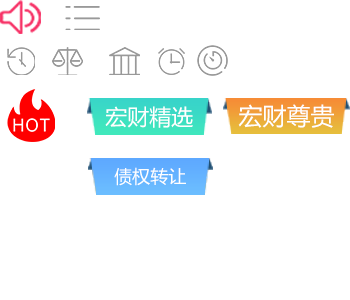
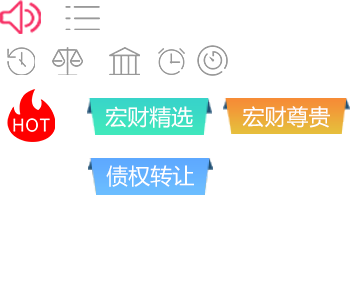
fix(main.less):项目特点 图标位置调整

Changed region(s): [[0.6857, 0.33, 0.9714, 0.45], [0.2857, 0.54, 0.5714, 0.63]]

diff --git a/app/styles/main.less b/app/styles/main.less
@@ -1029,6 +1029,7 @@ div, p {
   padding: 0.5rem 1.5rem 0.5rem; 
   border-bottom: 1px solid #eee; 
   position:relative;
+  overflow: hidden;
   .hdimg {
     float:left;
     width: 2rem;
@@ -1110,6 +1111,8 @@ div, p {
       .more-list {
         float: right;
         color: #f0c46c;
+        position: relative;
+        z-index: 9999;
       }
       .title-text {
         float: left;
@@ -1119,7 +1122,7 @@ div, p {
         display: inline-block;
         width: 2rem;
         height: 2rem;
-        background: url('/images/new-main/spirit-icon.png') no-repeat .2rem -2rem;
+        background: url('/images/new-main/spirit-icon.png') no-repeat .2rem -2.18rem;
         background-size: 500%;
       }
       .sold-out {
@@ -1128,6 +1131,7 @@ div, p {
         position: absolute;
         top: -1.5rem;
         right: 1.5rem;
+        z-index: 999;
       }
     }
     .pro-info {
@@ -1218,23 +1222,23 @@ div, p {
         vertical-align: text-bottom;
       }
       .medium-short {
-        background: url('/images/new-main/spirit-icon.png') no-repeat -.1rem -1.3rem;
+        background: url('/images/new-main/spirit-icon.png') no-repeat -.1rem -1.36rem;
         background-size: 800%;
       }
       .steady-income {
-        background: url('/images/new-main/spirit-icon.png') no-repeat -1.7rem -1.3rem;
+        background: url('/images/new-main/spirit-icon.png') no-repeat -1.7rem -1.36rem;
         background-size: 800%;
       }
       .mortgage-guarantee {
-        background: url('/images/new-main/spirit-icon.png') no-repeat -3.6rem -1.3rem;
+        background: url('/images/new-main/spirit-icon.png') no-repeat -3.6rem -1.36rem;
         background-size: 800%;
       }
       .day-interest {
-        background: url('/images/new-main/spirit-icon.png') no-repeat -5.2rem -1.3rem;
+        background: url('/images/new-main/spirit-icon.png') no-repeat -5.2rem -1.36rem;
         background-size: 800%;
       }
       .asset-quality {
-        background: url('/images/new-main/spirit-icon.png') no-repeat -6.7rem -1.3rem;
+        background: url('/images/new-main/spirit-icon.png') no-repeat -6.7rem -1.36rem;
         background-size: 800%;
       }
     }

diff --git a/app/views/main/_new-main-project-template.html b/app/views/main/_new-main-project-template.html
@@ -9,7 +9,7 @@
       <span class="title-text ft-1p5" ng-show="widthFlag===0 && item.name.length > 12">HCJX170314期...</span>
       <span class="title-text ft-1p5">HCJX170314期</span>
       <span class="hot-project"></span>  
-      <span class="more-list ft-1p3">更多</span>  
+      <span class="more-list ft-1p3" ui-sref="root._main-list-temp({tab: 0})">更多</span>  
     </div>
     <div class="pro-info">
       <ul>
@@ -39,7 +39,7 @@
       <span class="title-text ft-1p5" ng-show="widthFlag===0 && item.name.length > 12">HCJX170314期...</span>
       <span class="title-text ft-1p5">HCJX170314期</span>
       <span class="hot-project"></span>  
-      <span class="more-list ft-1p3">更多</span>
+      <span class="more-list ft-1p3" ui-sref="root._main-list-temp({tab: 1})">更多</span>
       <img class="sold-out" src="/images/new-main/sold-out.png" alt="">  
     </div>
     <div class="pro-info">
@@ -69,7 +69,7 @@
       <span class="title-text ft-1p5" ng-show="widthFlag===0 && item.name.length <= 12">HCJX170314期</span>
       <span class="title-text ft-1p5" ng-show="widthFlag===0 && item.name.length > 12">HCJX170314期...</span>
       <span class="title-text ft-1p5">HCJX170314期</span>
-      <span class="more-list ft-1p3" ui-sref="root._main-list-temp({tab: 1})">更多</span>  
+      <span class="more-list ft-1p3" ui-sref="root._main-list-temp({tab: 2})">更多</span>  
     </div>
     <div class="pro-info">
       <ul>
